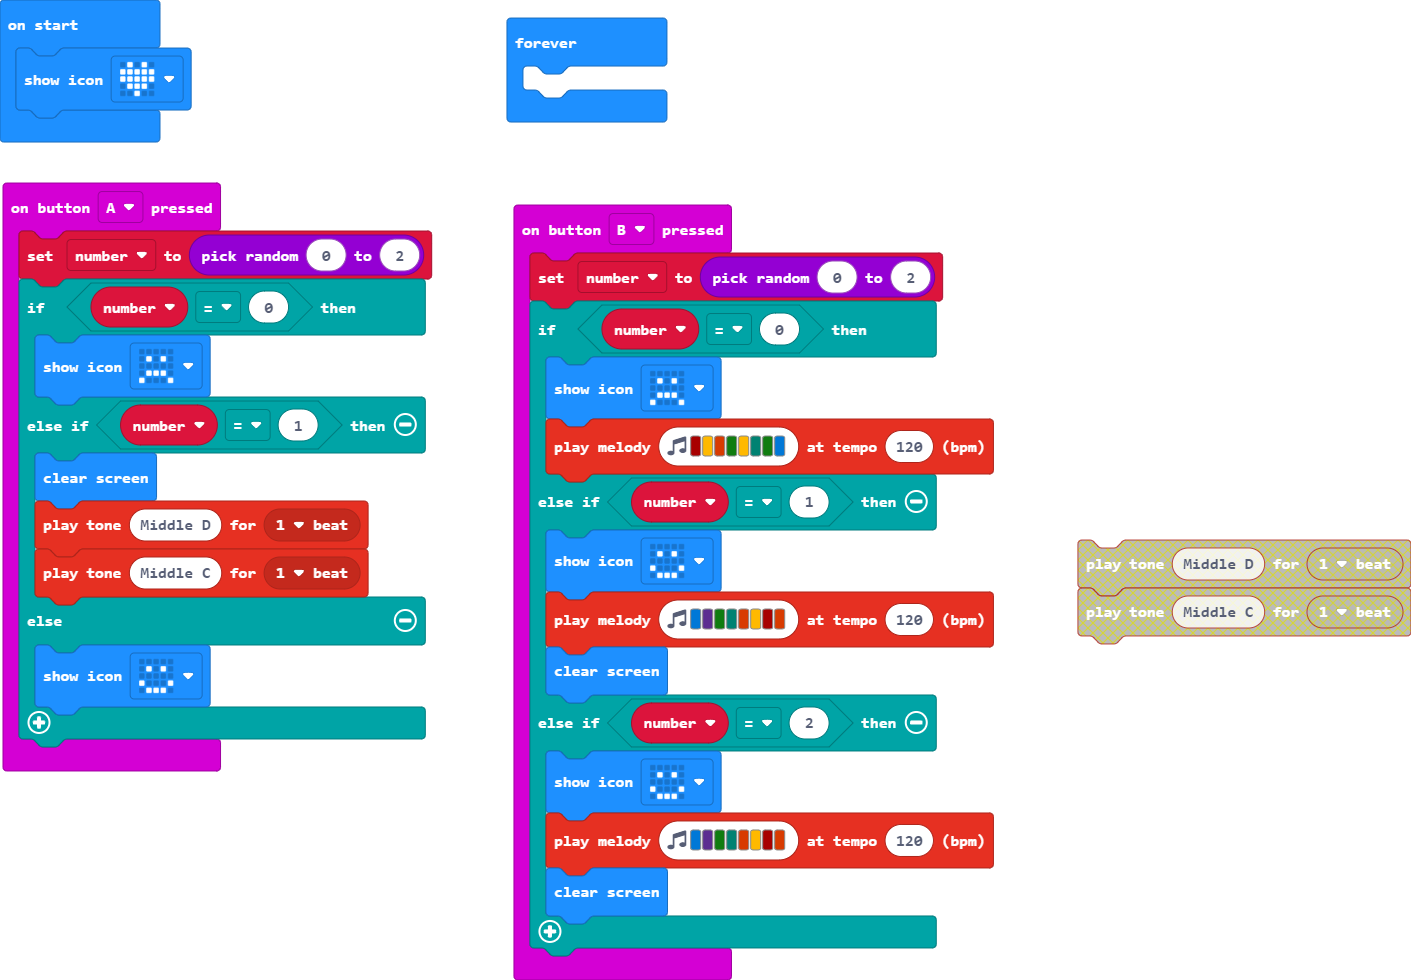
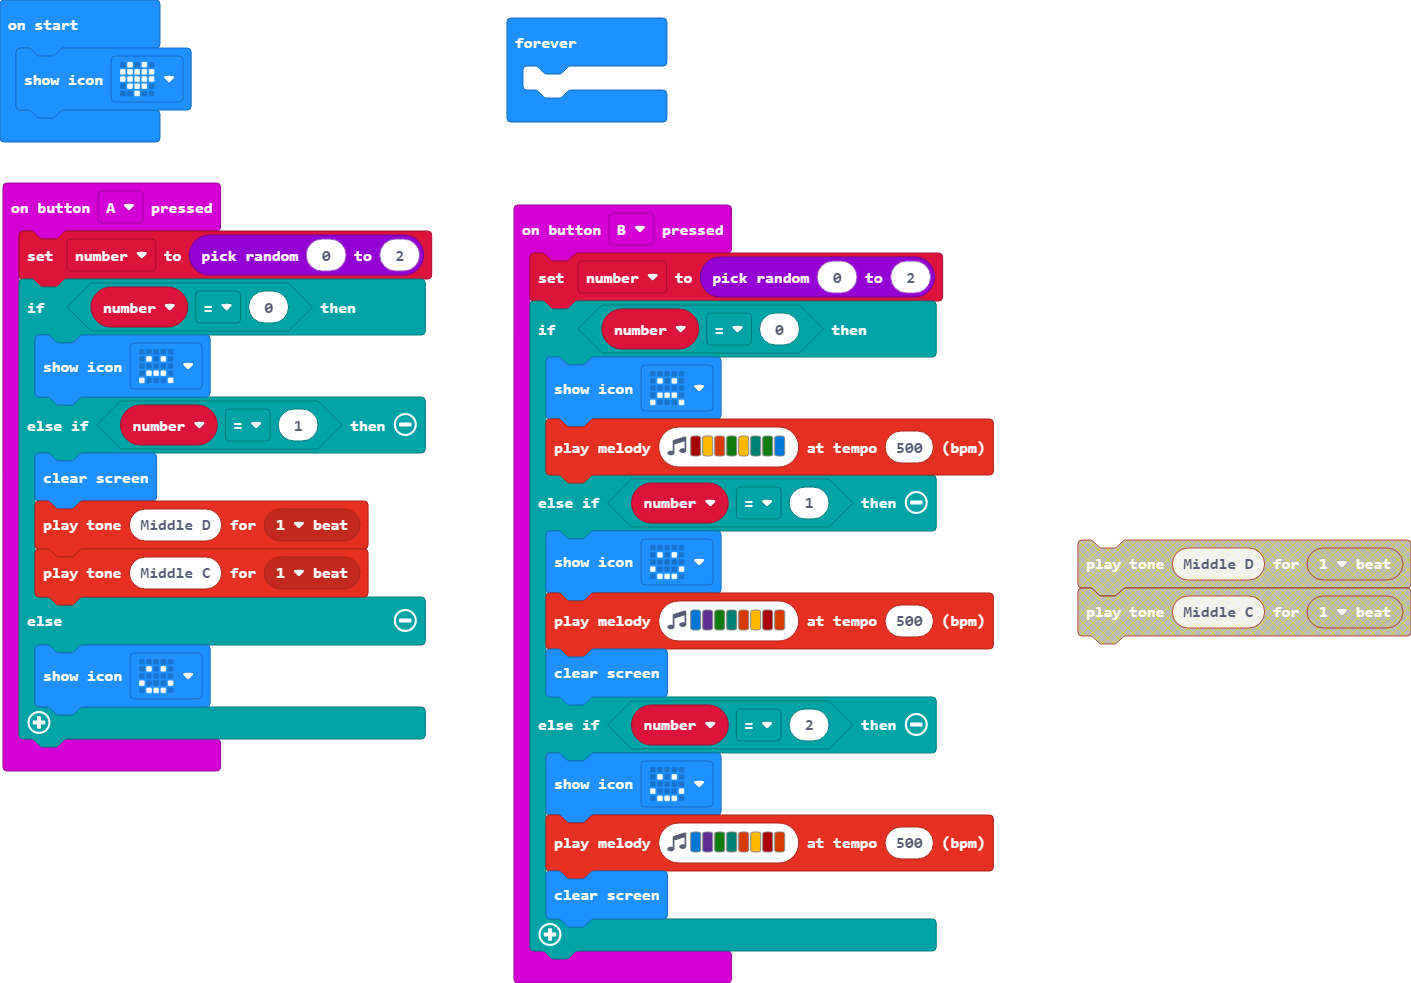
Update main.blocks, main.ts

diff --git a/main.ts b/main.ts
@@ -14,14 +14,14 @@ input.onButtonPressed(Button.B, function () {
     number = randint(0, 2)
     if (number == 0) {
         basic.showIcon(IconNames.Sad)
-        music.playMelody("C5 A B G A F G E ", 120)
+        music.playMelody("C5 A B G A F G E ", 500)
     } else if (number == 1) {
         basic.showIcon(IconNames.Happy)
-        music.playMelody("E D G F B A C5 B ", 120)
+        music.playMelody("E D G F B A C5 B ", 500)
         basic.clearScreen()
     } else if (number == 2) {
         basic.showIcon(IconNames.Happy)
-        music.playMelody("E D G F B A C5 B ", 120)
+        music.playMelody("E D G F B A C5 B ", 500)
         basic.clearScreen()
     }
 })
